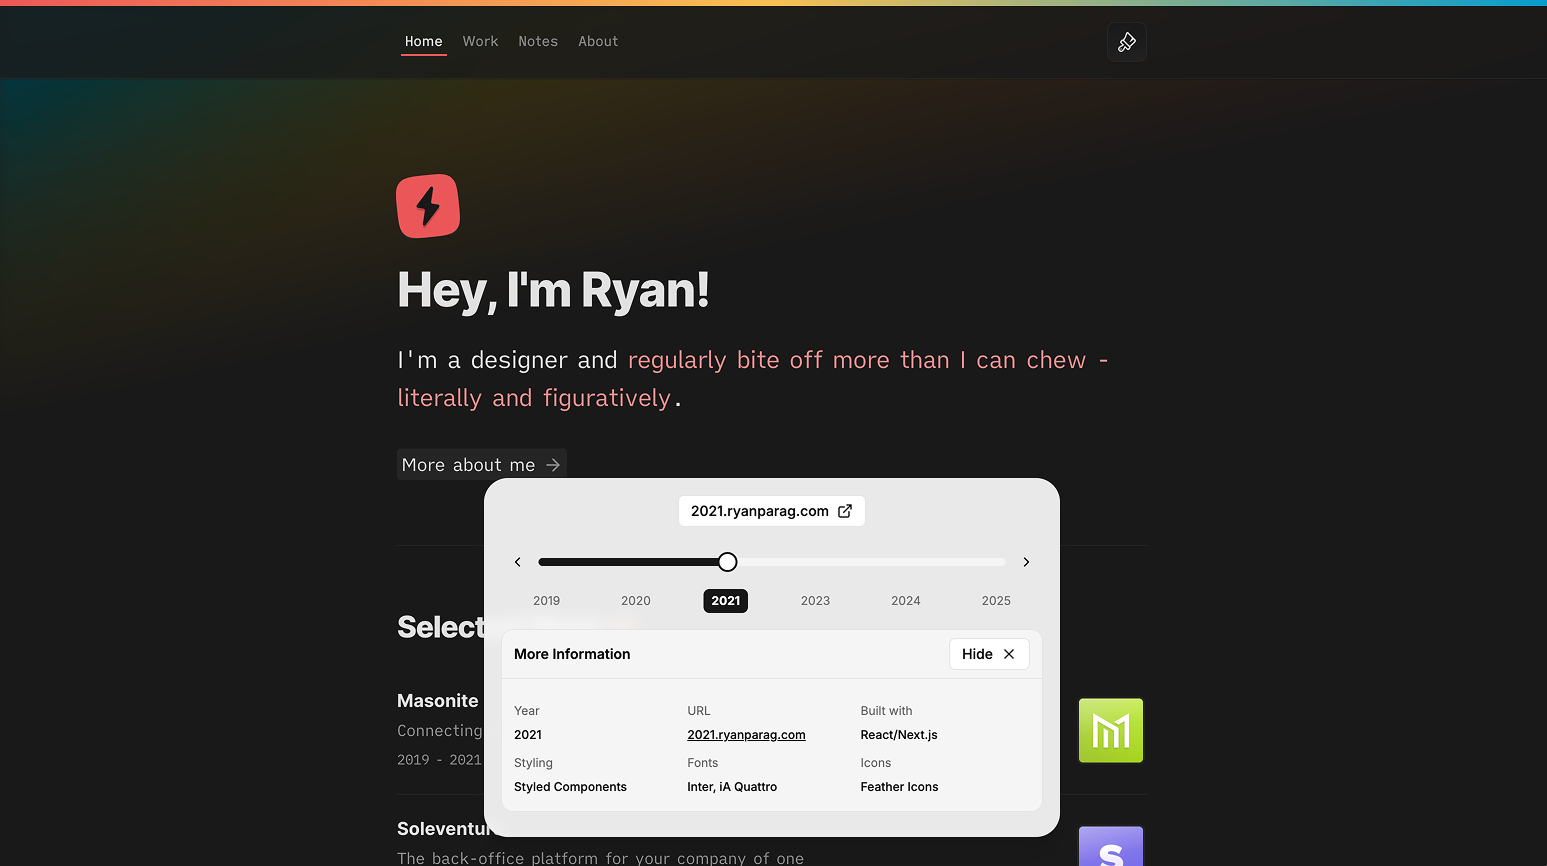
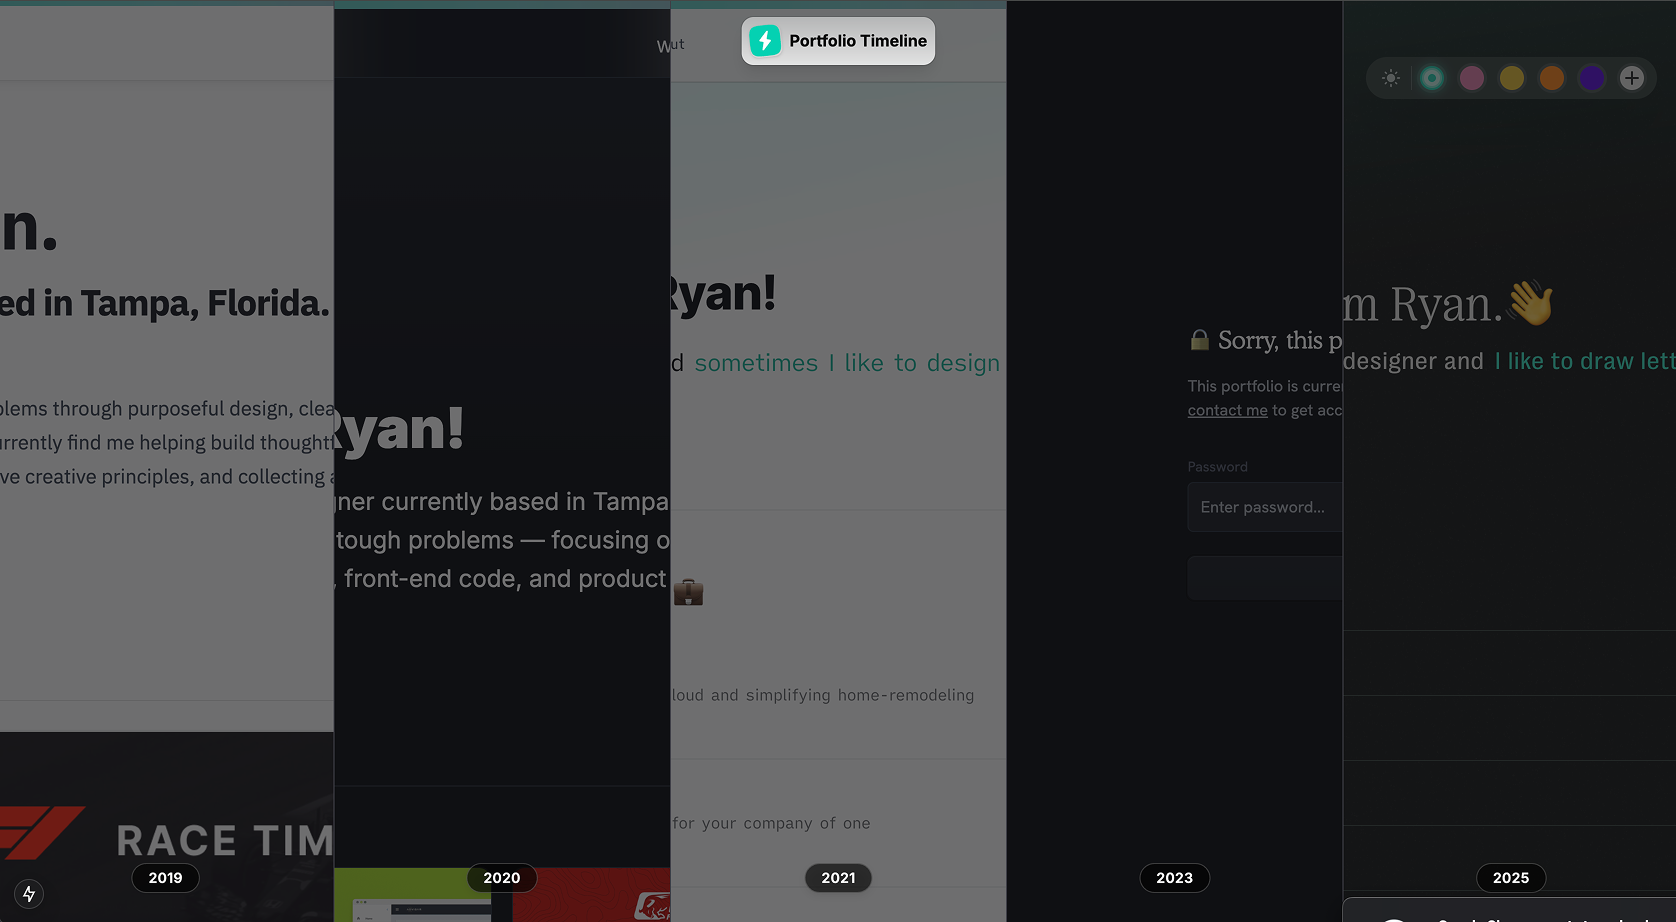
add new timeline version

diff --git a/data/sideProjects.js b/data/sideProjects.js
@@ -125,7 +125,8 @@ export const sideProjects = [
     logo: 'timeline-logo.svg',
     color: '#00d1b2',
     images: [
-      { src: '/projects/timeline/1.png', caption: 'Timeline widget for all of the different versions of my portfolio' }
+      { src: '/projects/timeline/1.png', caption: 'Timeline viewer for all of the different iterations of my portfolio' },
+      { src: '/projects/timeline/2.png', caption: 'Portfolio iteration view with all of the major build materials' }
     ]
   },
   {
